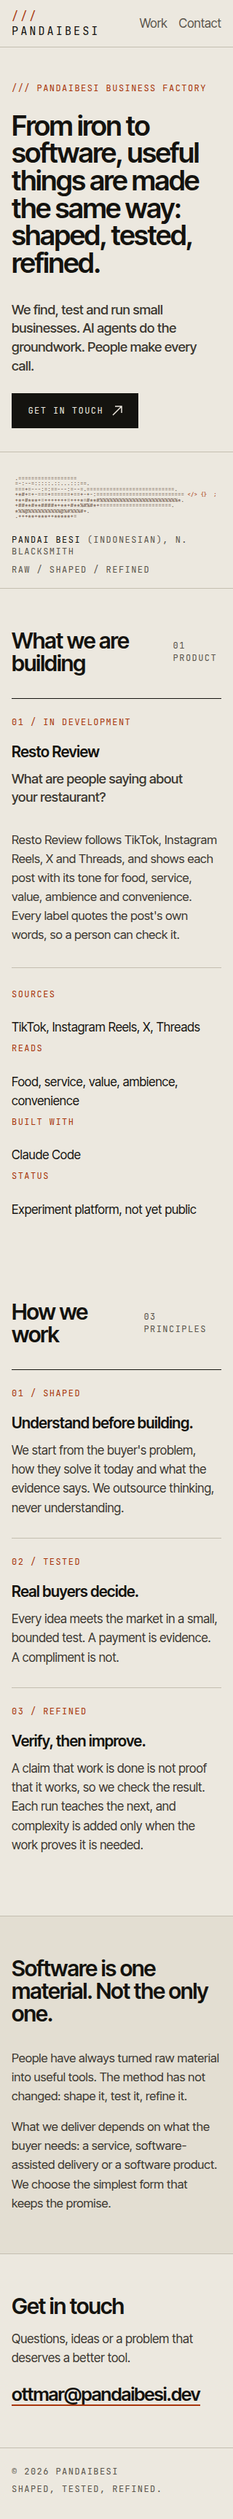
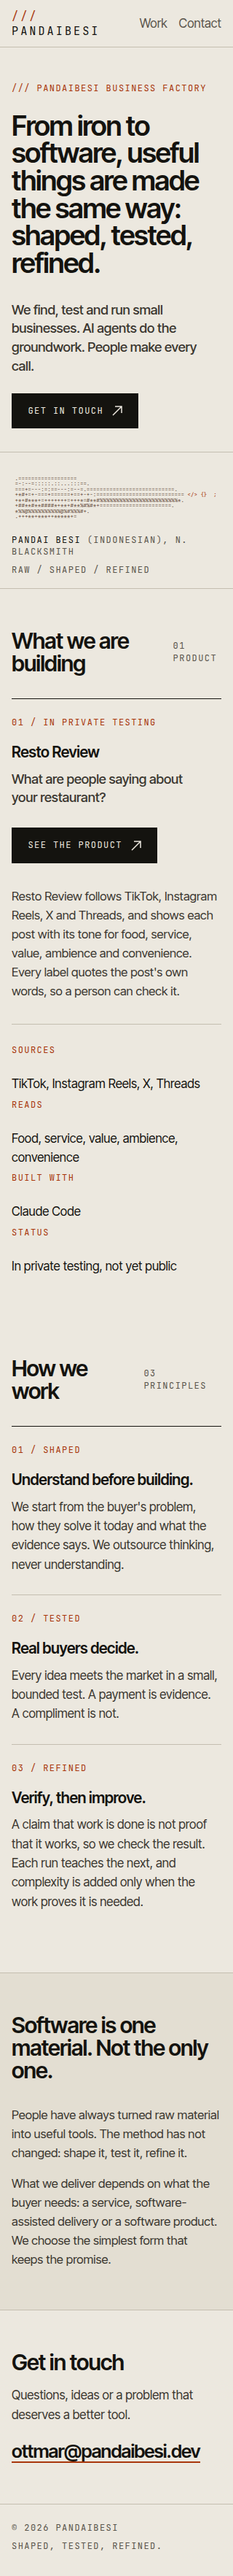
Add Resto Review product page
New page at /resto-review/ with mockup screenshots (invented sample names),
how it works, and its private testing status. The home page links to it and
the sitemap lists it.

diff --git a/site/resto-review/index.html b/site/resto-review/index.html
@@ -3,17 +3,17 @@
 <head>
 <meta charset="utf-8">
 <meta name="viewport" content="width=device-width, initial-scale=1">
-<title>PandaiBesi Business Factory</title>
-<meta name="description" content="From iron to software, useful things are made the same way: shaped, tested, refined. PandaiBesi finds, tests and runs small businesses with AI agents.">
+<title>Resto Review | PandaiBesi</title>
+<meta name="description" content="Resto Review finds what people post about your restaurant on TikTok, Instagram Reels, X and Threads, reads the tone of each post and shows the words behind every label. In private testing.">
 <meta name="theme-color" content="#ECE8DF">
 <meta name="color-scheme" content="light">
-<link rel="canonical" href="https://pandaibesi.dev/">
+<link rel="canonical" href="https://pandaibesi.dev/resto-review/">
 <link rel="icon" href="/favicon.svg" type="image/svg+xml">
 <link rel="apple-touch-icon" href="/apple-touch-icon.png">
 <meta property="og:type" content="website">
-<meta property="og:url" content="https://pandaibesi.dev/">
-<meta property="og:title" content="PandaiBesi Business Factory">
-<meta property="og:description" content="From iron to software, useful things are made the same way: shaped, tested, refined.">
+<meta property="og:url" content="https://pandaibesi.dev/resto-review/">
+<meta property="og:title" content="Resto Review | PandaiBesi">
+<meta property="og:description" content="What are people saying about your restaurant? Tone per post, with the words behind every label.">
 <meta property="og:image" content="https://pandaibesi.dev/og.png">
 <meta property="og:image:width" content="1200">
 <meta property="og:image:height" content="630">
@@ -87,7 +87,6 @@ h3{font-weight:600;font-size:clamp(1.3rem,2vw,1.6rem);line-height:1.15;letter-sp
 
 .product{display:grid;grid-template-columns:minmax(0,1fr) minmax(0,1.2fr);gap:2rem clamp(2rem,6vw,6rem);border-top:1px solid var(--ink);padding-top:1.5rem;align-items:start}
 .product .label{color:var(--ember);margin:0 0 1.25rem}
-.product .more{margin:1.75rem 0 0;color:var(--paper)}
 .product .tagline{font-size:clamp(1.15rem,1.9vw,1.45rem);line-height:1.4;color:var(--ink-2);margin:0;max-width:24ch;font-weight:500;letter-spacing:-.01em}
 .product .body>p{margin:0;font-size:clamp(1.05rem,1.5vw,1.2rem);color:var(--ink-2);max-width:46ch}
 .facts{display:grid;grid-template-columns:auto minmax(0,1fr);gap:.75rem 1.5rem;margin:2rem 0 0;padding-top:1.5rem;border-top:1px solid var(--rule)}
@@ -108,6 +107,14 @@ h3{font-weight:600;font-size:clamp(1.3rem,2vw,1.6rem);line-height:1.15;letter-sp
 
 footer{border-top:1px solid var(--rule)}
 footer .wrap{display:flex;justify-content:space-between;flex-wrap:wrap;gap:.5rem 2rem;padding-block:1.5rem 2rem;color:var(--muted)}
+
+.shot{margin:0}
+.shot img{display:block;width:100%;height:auto;border:1px solid var(--rule)}
+.shot figcaption{color:var(--muted);margin-top:.9rem}
+.shots{display:grid;grid-template-columns:minmax(0,1.25fr) minmax(0,1fr);gap:2rem clamp(1.5rem,4vw,3rem);align-items:start}
+@media (max-width:820px){.shots{grid-template-columns:1fr}}
+.status{color:var(--ember);margin:0 0 1.5rem}
+.back{color:var(--muted)}
 </style>
 </head>
 <body>
@@ -117,8 +124,8 @@ footer .wrap{display:flex;justify-content:space-between;flex-wrap:wrap;gap:.5rem
     <a class="mark" href="/" aria-label="PandaiBesi, home"><span aria-hidden="true">///</span> PANDAIBESI</a>
     <nav aria-label="Main">
       <ul>
-        <li><a href="#work">Work</a></li>
-        <li class="wide-only"><a href="#approach">Approach</a></li>
+        <li><a href="/#work">Work</a></li>
+        <li class="wide-only"><a href="#how">How it works</a></li>
         <li><a href="#contact">Contact</a></li>
       </ul>
     </nav>
@@ -127,120 +134,75 @@ footer .wrap{display:flex;justify-content:space-between;flex-wrap:wrap;gap:.5rem
 
 <main id="main">
   <div class="hero wrap">
-    <p class="eyebrow label">/// PandaiBesi Business Factory</p>
-    <h1>From iron to software, useful things are made the same way: shaped, tested, refined.</h1>
+    <p class="eyebrow label">/// Resto Review / In private testing</p>
+    <h1>What are people saying about your restaurant?</h1>
     <div class="hero-foot">
-      <p class="lede">We find, test and run small businesses. AI agents do the groundwork. People make every call.</p>
-      <a class="btn label" href="mailto:ottmar@pandaibesi.dev">Get in touch <svg viewBox="0 0 14 14" aria-hidden="true"><path d="M1 13 13 1M4 1h9v9" fill="none" stroke="currentColor" stroke-width="1.5"/></svg></a>
+      <p class="lede">Resto Review finds posts about your restaurant on TikTok, Instagram Reels, X and Threads, reads their tone and shows the words behind every label.</p>
+      <a class="btn label" href="mailto:ottmar@pandaibesi.dev?subject=Resto%20Review">Ask about testing <svg viewBox="0 0 14 14" aria-hidden="true"><path d="M1 13 13 1M4 1h9v9" fill="none" stroke="currentColor" stroke-width="1.5"/></svg></a>
     </div>
   </div>
 
-  <figure class="ornament" aria-label="A rough bar of raw metal drawn out into a finished blade whose point turns into code.">
-    <div class="wrap art">
-      <pre class="wide" aria-hidden="true"><!-- ornament:wide -->
-
-
-    =========================================
-   =-:::-::-:::=-::::-::::.:..:...:.:..:..-:.:===
-   :::-::---::-+-:::=-:.::.-....:.:::..:..-- .=-.===
-   .--==-:==-==+--::--..::::..::=.:....:..=- .+= .+====
-   -::+===#*+--=-:---:.--...:-==-.:.:..=:.=-..+=..+- :+-===
-   -=#=--*+-==:+=+=::--:==:-=+===-=+=-=+::++::*+.:*=..+- :-:=========================================================.
-   *+=+#%#+=+==**+:-=--=---===-:------=+=-+=::*+:-*=:.*- .=...-+=========================================================.
-   -=**#*=-==-+*=--+=+==*++++-++++===-++--+*--*+--*+--#=:-+:.:-+========================================================+++ <span class="code">&lt;/&gt;</span> <span class="code">{}</span>   <span class="code">;</span>      <span class="code">01</span>
-   ##%#*===++#+-==+**--=+==-=++++++*++++==**==#*-=#*-=#+-=*=-=++++++++++++++++++++++++++++++++++++++++++++++++++++*****##%+
-   +=+#+++##*+*##*#*=+*+++=+*****++=+=====**--**==#*==%*=+#*+*#%%%%%%%%%%%%%%%%%%%%%%%%%%%%%%%%%%%%%%%%%%%%%%%%%%%%%%%%%#=
-   ###*=*#*#+*++*****=+*++*+**++++=+*++*+=*#==##==%*=*%#*#%%%%%%%%%%%%%%%%%%%%%%%%%%%%%%%%%%%%%%%%%%%%%%%%%%%%%%%%%%##+.
-   *###+***==*#%**=**#%######*****+*+=**++##=+##++%%*#%%%%%%################################################***++==
-   *####%#**#%@%##%**###*###**#******+*#*+#%++%%*#%%%%%%#+=
-   *###%%%%#%#%####%%%%**#**#%#####%%#%%**%%*#%%#%%%%#+
-   %@@%##@@%%%%%%@%@@@%%%%%@@@%@@@@%@%@@%#%%%%%@@%*+.
-   %@@%%@%%@@@@@@@@@@@@@@@@@@@@@@@@@@@@@%%@%%%#*+
-    =.*%*  =+*++...++*#***++.+.+++**++*=+**=.
-                                  .
-
-<!-- /ornament:wide --></pre>
-      <pre class="narrow" aria-hidden="true"><!-- ornament:narrow -->
- .==================
- =-:--=:::::.::...:::==.
- ===+=---:=:==---:=--=.===========================.
- +*#+=+-===+======+==+-+-:=========================== <span class="code">&lt;/&gt;</span> <span class="code">{}</span>  <span class="code">;</span>
- +*+#***+=+++++++=+++*=#**#%%%%%%%%%%%%%%%%%%%%%%%%*.
- +##**#**####*+**+#**%#%#*+======================.
- *%%@%%%%%%%%%%@%#%%%#+.
- .+++**+***++*****+=
-<!-- /ornament:narrow --></pre>
-    </div>
-    <figcaption class="wrap caption label"><span><i>pandai besi</i> (Indonesian), n. blacksmith</span><span>Raw / Shaped / Refined</span></figcaption>
-  </figure>
-
-  <section id="work" aria-labelledby="work-title">
+  <section class="idea" aria-labelledby="look-title">
     <div class="wrap">
       <div class="section-head">
-        <h2 id="work-title">What we are building</h2>
-        <p class="label count" aria-hidden="true">01 product</p>
+        <h2 id="look-title">The mentions feed</h2>
+        <p class="label count">Sample data</p>
       </div>
-      <article class="product">
-        <div>
-          <p class="label">01 / In private testing</p>
-          <h3>Resto Review</h3>
-          <p class="tagline">What are people saying about your restaurant?</p>
-          <a class="btn label more" href="/resto-review/">See the product <svg viewBox="0 0 14 14" aria-hidden="true"><path d="M1 13 13 1M4 1h9v9" fill="none" stroke="currentColor" stroke-width="1.5"/></svg></a>
-        </div>
-        <div class="body">
-          <p>Resto Review follows TikTok, Instagram Reels, X and Threads, and shows each post with its tone for food, service, value, ambience and convenience. Every label quotes the post's own words, so a person can check it.</p>
-          <dl class="facts">
-            <dt class="label">Sources</dt><dd>TikTok, Instagram Reels, X, Threads</dd>
-            <dt class="label">Reads</dt><dd>Food, service, value, ambience, convenience</dd>
-            <dt class="label">Built with</dt><dd>Claude Code</dd>
-            <dt class="label">Status</dt><dd>In private testing, not yet public</dd>
-          </dl>
-        </div>
-      </article>
+      <div class="shots">
+        <figure class="shot">
+          <img src="feed.jpg" width="936" height="883" alt="Resto Review mentions feed for a sample restaurant. Two posts, one marked Positive with Food Positive, one marked Negative with Service, Value and Convenience Negative, each with its view count.">
+          <figcaption class="label">The feed: newest posts first, each with its overall tone and element labels.</figcaption>
+        </figure>
+        <figure class="shot">
+          <img src="evidence.jpg" width="752" height="612" loading="lazy" alt="Details of one post marked Mixed. Food Positive quotes Nasi bakarnya enak banget, Ambience Negative quotes tempatnya panas, Convenience Negative quotes parkirnya susah.">
+          <figcaption class="label">Details: every element label quotes the post's own words.</figcaption>
+        </figure>
+      </div>
+      <p class="label back" style="margin-top:2rem">Design mockup. Restaurant, accounts and posts are invented.</p>
     </div>
   </section>
 
-  <section id="approach" aria-labelledby="approach-title">
+  <section id="how" aria-labelledby="how-title">
     <div class="wrap">
       <div class="section-head">
-        <h2 id="approach-title">How we work</h2>
-        <p class="label count" aria-hidden="true">03 principles</p>
+        <h2 id="how-title">How it works</h2>
+        <p class="label count" aria-hidden="true">03 steps</p>
       </div>
       <div class="grid3">
         <article>
-          <p class="label">01 / Shaped</p>
-          <h3>Understand before building.</h3>
-          <p>We start from the buyer's problem, how they solve it today and what the evidence says. We outsource thinking, never understanding.</p>
+          <p class="label">01 / Collect</p>
+          <h3>Find the posts.</h3>
+          <p>Resto Review searches TikTok, Instagram Reels, X and Threads for posts about one restaurant, within a fixed monthly budget per restaurant.</p>
         </article>
         <article>
-          <p class="label">02 / Tested</p>
-          <h3>Real buyers decide.</h3>
-          <p>Every idea meets the market in a small, bounded test. A payment is evidence. A compliment is not.</p>
+          <p class="label">02 / Judge</p>
+          <h3>Read the tone.</h3>
+          <p>Each caption is checked: is it about the restaurant, and is it positive, negative or mixed? Then for food, service, value, ambience and convenience.</p>
         </article>
         <article>
-          <p class="label">03 / Refined</p>
-          <h3>Verify, then improve.</h3>
-          <p>A claim that work is done is not proof that it works, so we check the result. Each run teaches the next, and complexity is added only when the work proves it is needed.</p>
+          <p class="label">03 / Show</p>
+          <h3>Keep the evidence.</h3>
+          <p>Every element label quotes the words it came from, so a person can check it. No label means no opinion was read, never neutral.</p>
         </article>
       </div>
     </div>
   </section>
 
-  <section class="idea" aria-labelledby="idea-title">
+  <section class="idea" aria-labelledby="status-title">
     <div class="wrap split">
-      <h2 id="idea-title">Software is one material. Not the only one.</h2>
+      <h2 id="status-title">In private testing.</h2>
       <div>
-        <p>People have always turned raw material into useful tools. The method has not changed: shape it, test it, refine it.</p>
-        <p>What we deliver depends on what the buyer needs: a service, software-assisted delivery or a software product. We choose the simplest form that keeps the promise.</p>
+        <p>Resto Review runs privately while we test how well it finds and reads posts. It is not open to the public yet.</p>
+        <p>It is built by PandaiBesi with Claude Code, step by step, and each step is checked before the next one starts.</p>
       </div>
     </div>
   </section>
 
   <section id="contact" class="contact" aria-labelledby="contact-title">
     <div class="wrap">
-      <h2 id="contact-title">Get in touch</h2>
-      <p class="invite">Questions, ideas or a problem that deserves a better tool.</p>
-      <a class="email" href="mailto:ottmar@pandaibesi.dev">ottmar@pandaibesi.dev</a>
+      <h2 id="contact-title">Interested?</h2>
+      <p class="invite">Run a restaurant and want to know what people post about it? Write to us.</p>
+      <a class="email" href="mailto:ottmar@pandaibesi.dev?subject=Resto%20Review">ottmar@pandaibesi.dev</a>
     </div>
   </section>
 </main>
@@ -248,7 +210,7 @@ footer .wrap{display:flex;justify-content:space-between;flex-wrap:wrap;gap:.5rem
 <footer>
   <div class="wrap label">
     <span>© 2026 PandaiBesi</span>
-    <span>Shaped, tested, refined.</span>
+    <span><a href="/">pandaibesi.dev</a></span>
   </div>
 </footer>
 </body>

diff --git a/COPY.md b/COPY.md
@@ -29,7 +29,13 @@ Facts come from the Resto Review repository (`Jaluud/resto-review`), not the SSO
 | Tone per food, service, value, ambience, convenience | README, Module 06 |
 | Every label quotes the post's own words | README, Module 06 ("every label quotes the caption's own words") |
 | Built with Claude Code | 41 of 49 commits co-authored by Claude |
-| Experiment platform, not yet public | CLAUDE.md ("an experiment platform, not a production review service") |
+| In private testing, not yet public | CLAUDE.md ("an experiment platform, not a production review service"); owner chose the "private testing" wording on 2026-10-08 |
+| Fixed monthly budget per restaurant (product page) | README, standing monthly budget per restaurant |
+| No label means no opinion was read, never neutral (product page) | README, Module 06 |
+
+Product page screenshots (`site/resto-review/*.jpg`) come from the design
+mockup `sketches/007-warm-redesign`. Restaurant name and account handles were
+replaced with invented "Contoh" names, and the page labels them as sample data.
 
 Kept off the page: the judging model provider, the monthly budget, module
 numbers and validation status.
